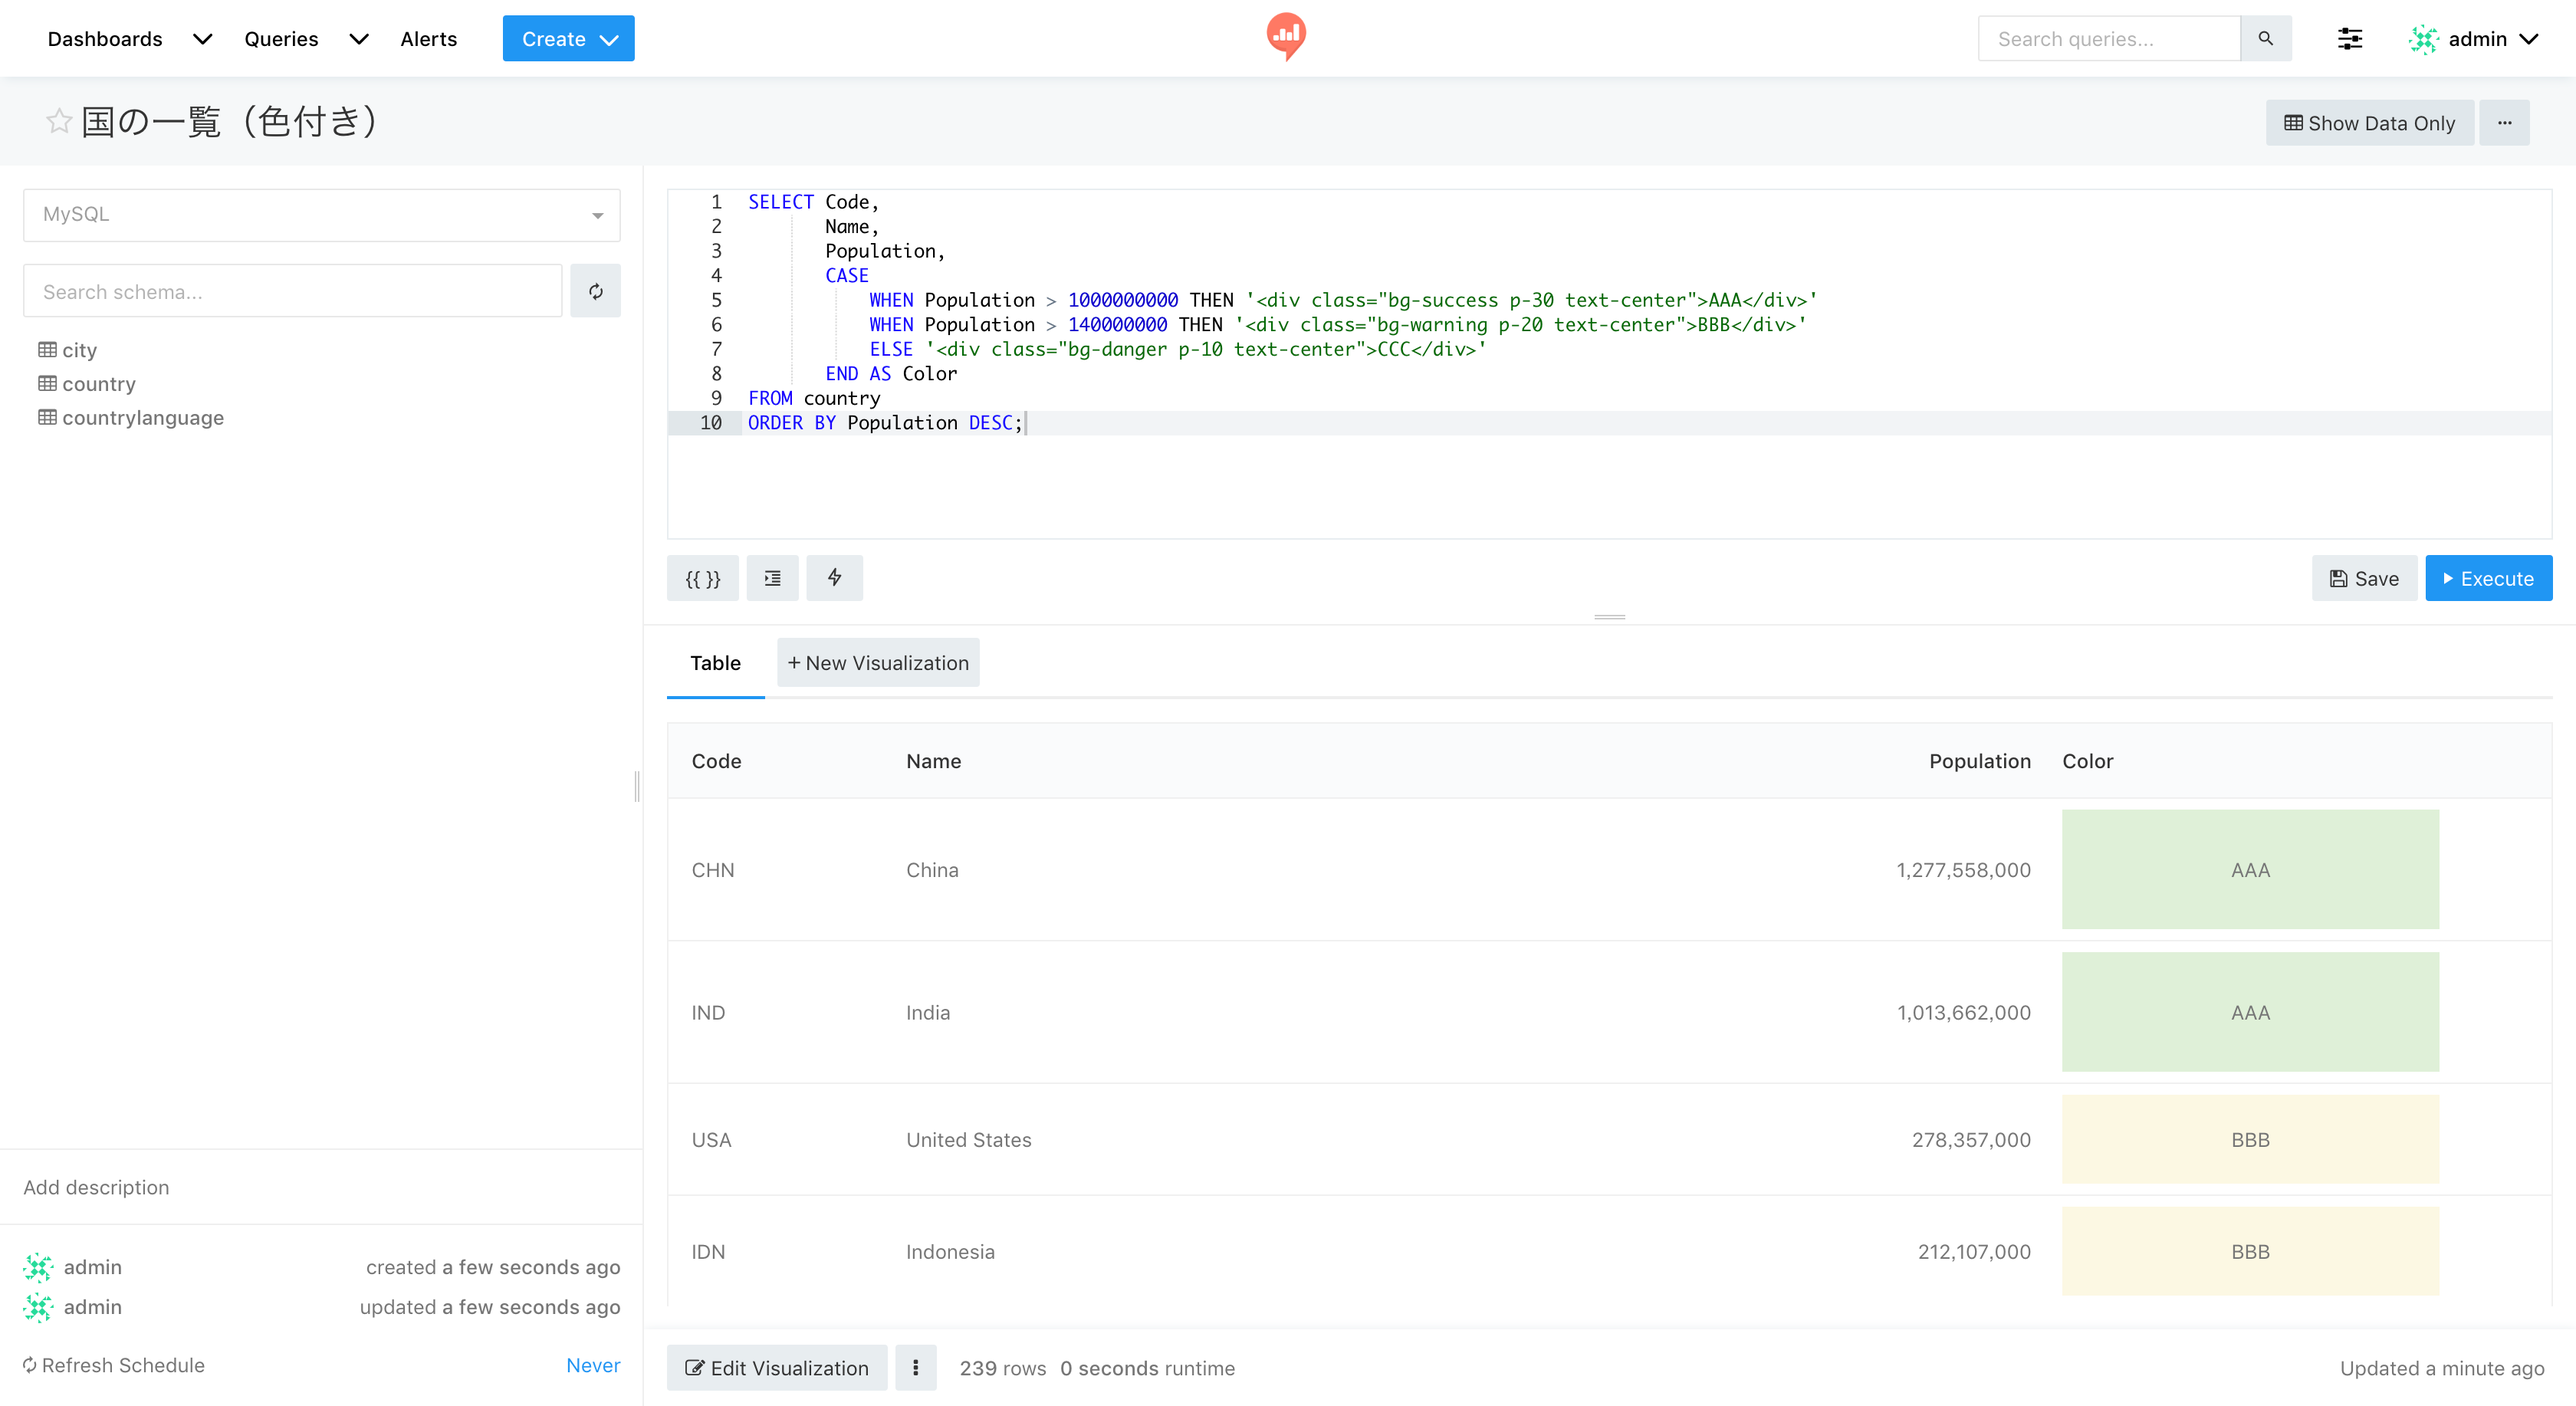
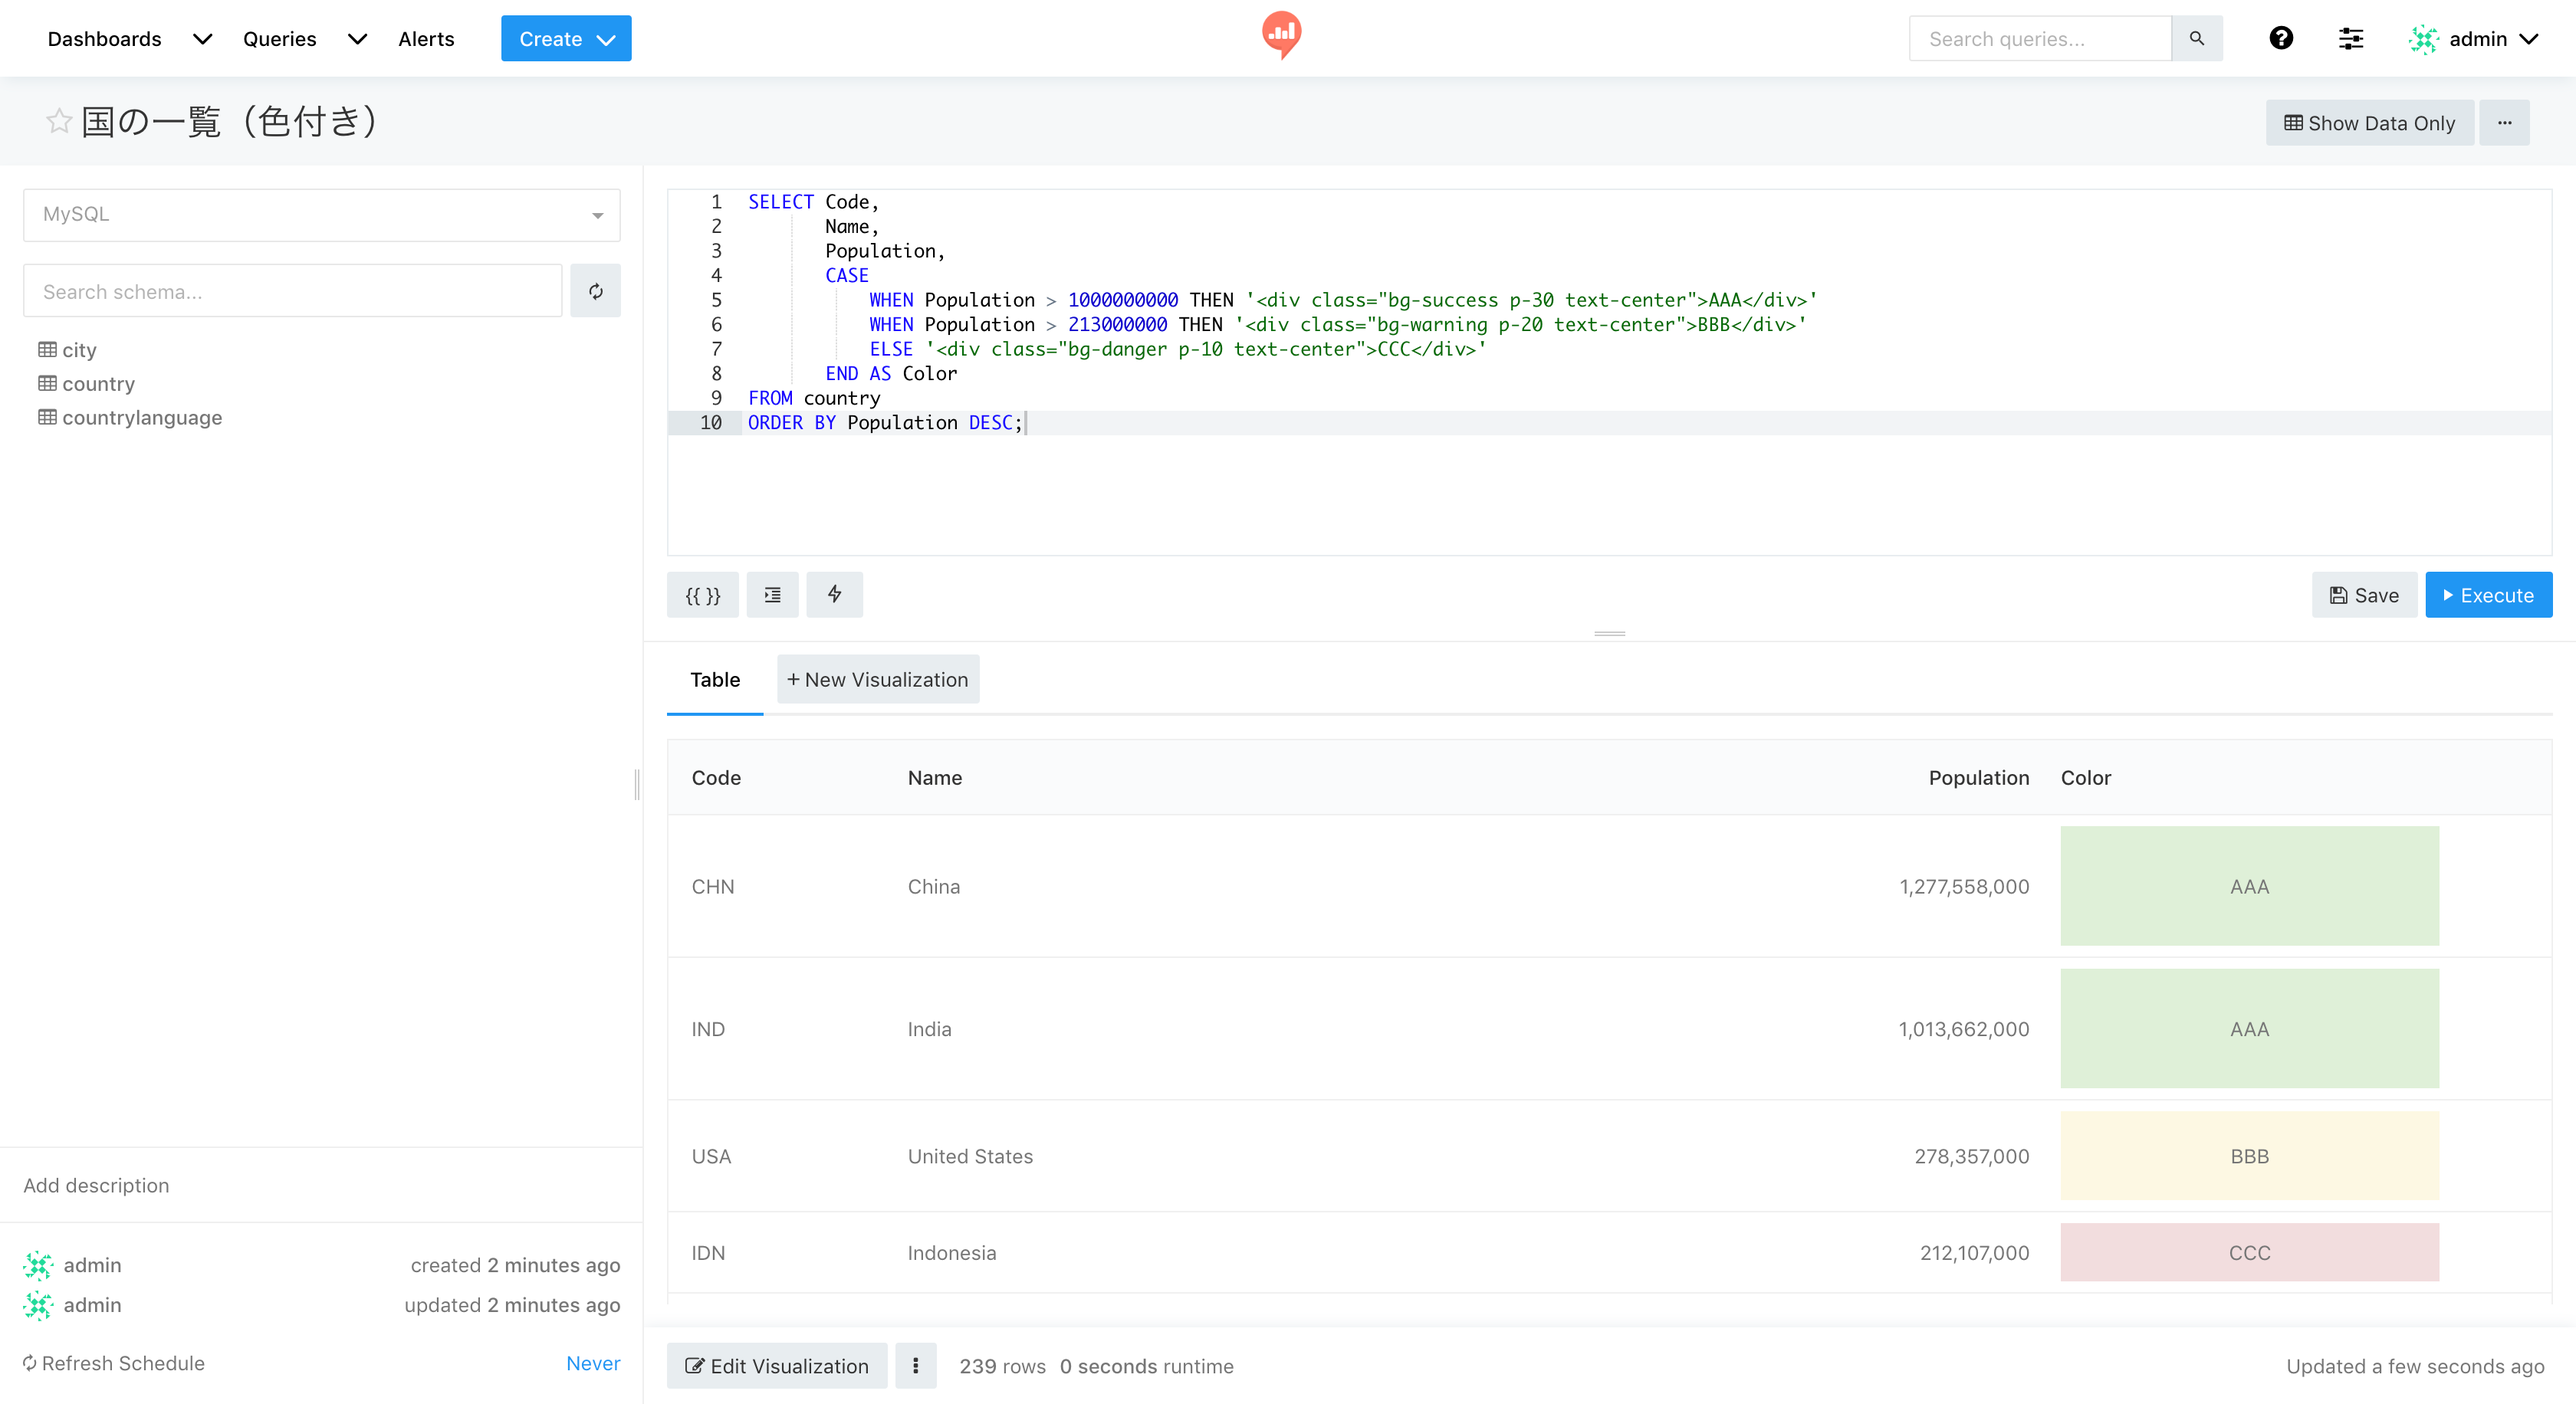
Updated Query Tips 2

diff --git a/README.md b/README.md
@@ -345,7 +345,7 @@ SELECT *, CountryCode AS 'CountryCode::multi-filter' FROM city ORDER BY Populati
 
 Redash では，よく使うクエリ（もしくはクエリの一部）をクエリスニペットとして登録する機能があります．
 
-画面右上にある Settings アイコンをクリックし，「Query Snippets」タブをクリックします．
+画面右上にある Settings アイコン（？の右側）をクリックし，「Query Snippets」タブをクリックします．
 
 次に「New Snippet」ボタンをクリックすると登録画面が表示されます．以下の設定をしたら「Save」ボタンを押しましょう．
 
@@ -385,7 +385,7 @@ SELECT Code,
        Population,
        CASE
            WHEN Population > 1000000000 THEN '<div class="bg-success p-30 text-center">AAA</div>'
-           WHEN Population > 140000000 THEN '<div class="bg-warning p-20 text-center">BBB</div>'
+           WHEN Population > 213000000 THEN '<div class="bg-warning p-20 text-center">BBB</div>'
            ELSE '<div class="bg-danger p-10 text-center">CCC</div>'
        END AS Color
 FROM country
